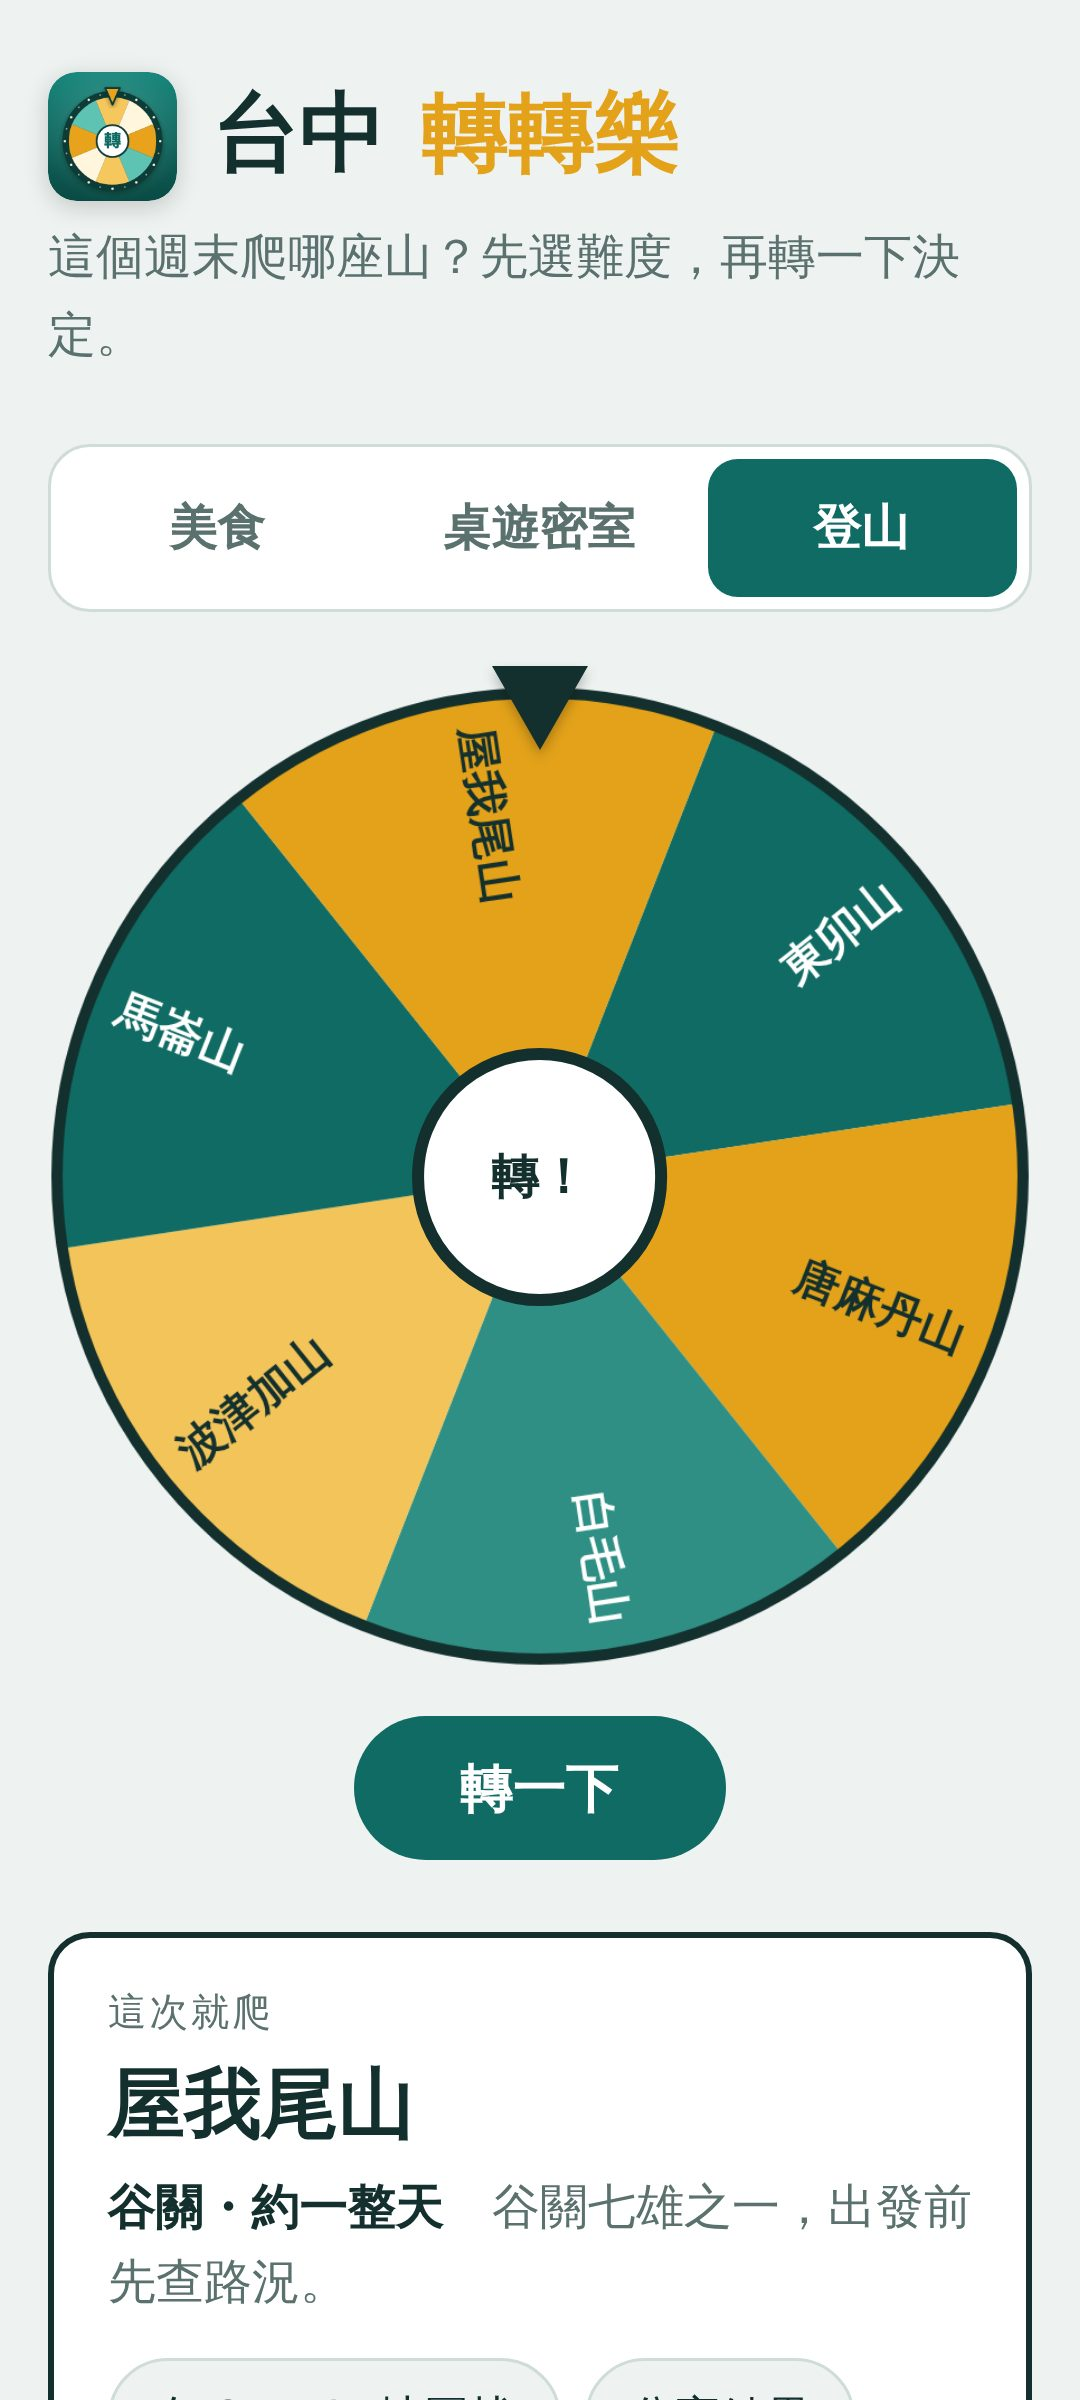
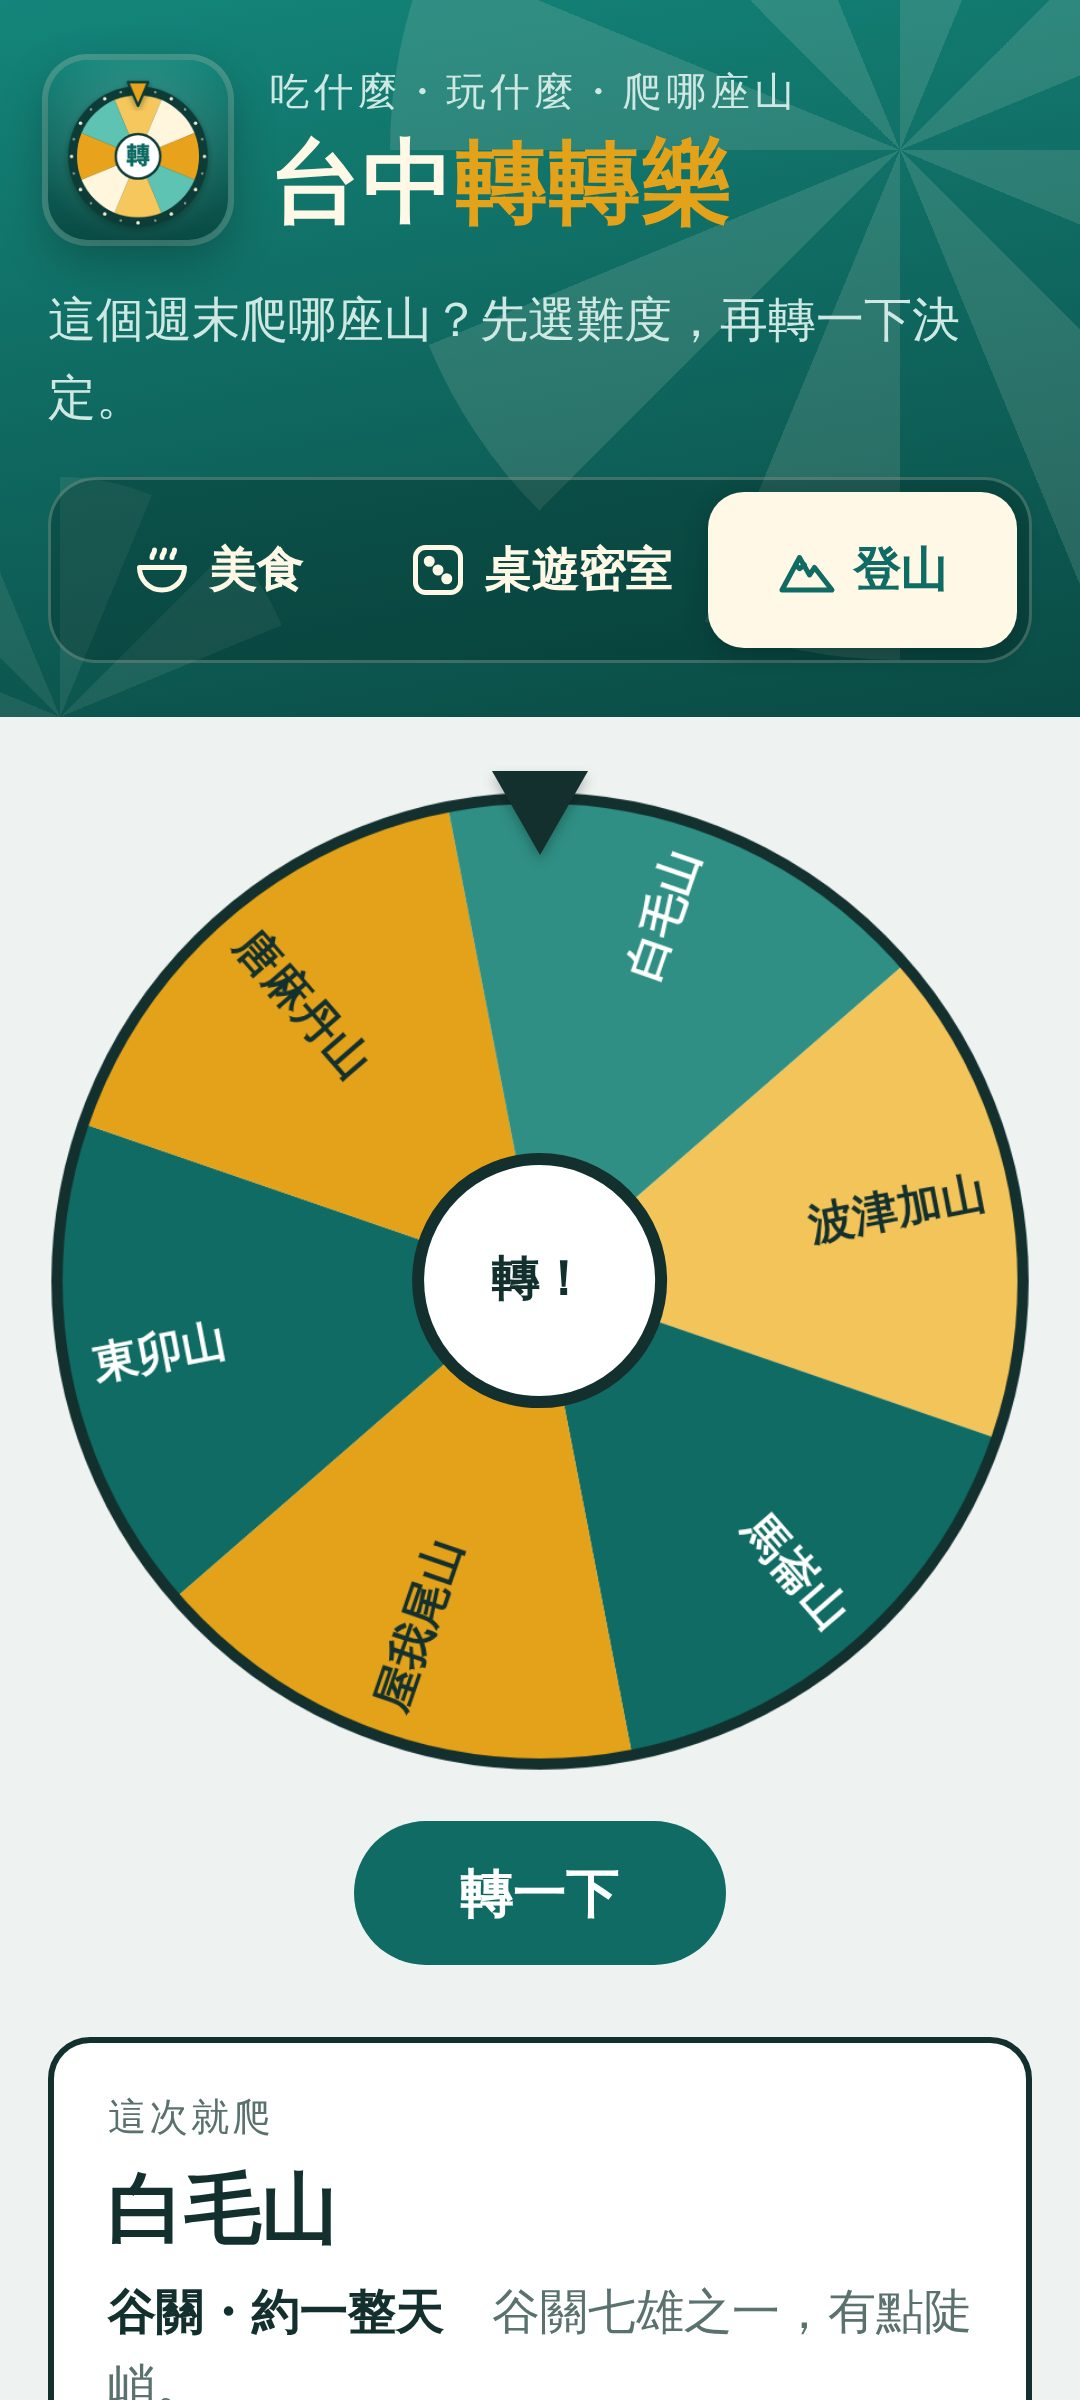
台中轉轉樂：重新設計 App 頂部橫幅
Claude-Session: https://claude.ai/code/session_01RjTRgTtaL6n1Y88vUja3y2

diff --git a/wheel/index.html b/wheel/index.html
@@ -5,8 +5,8 @@
 <meta name="viewport" content="width=device-width, initial-scale=1, viewport-fit=cover">
 <title>台中轉轉樂</title>
 <meta name="description" content="美食、桌遊密室、登山三個轉盤，轉一下決定在台中吃什麼、玩什麼、爬哪座山。">
-<meta name="theme-color" content="#0f6b63" media="(prefers-color-scheme: light)">
-<meta name="theme-color" content="#0e1918" media="(prefers-color-scheme: dark)">
+<meta name="theme-color" content="#14857a" media="(prefers-color-scheme: light)">
+<meta name="theme-color" content="#143a36" media="(prefers-color-scheme: dark)">
 <link rel="manifest" href="manifest.webmanifest">
 <link rel="icon" type="image/png" sizes="32x32" href="icons/favicon-32.png">
 <link rel="icon" type="image/png" sizes="192x192" href="icons/icon-192.png">
@@ -14,7 +14,7 @@
 <meta name="apple-mobile-web-app-capable" content="yes">
 <meta name="mobile-web-app-capable" content="yes">
 <meta name="apple-mobile-web-app-title" content="台中轉轉樂">
-<meta name="apple-mobile-web-app-status-bar-style" content="default">
+<meta name="apple-mobile-web-app-status-bar-style" content="black-translucent">
 </head>
 <body>
 <style>
@@ -28,6 +28,14 @@
     --accent: #0f6b63;
     --accent-fg: #ffffff;
     --sun: #e3a21a;
+    --hero-top: #14857a;
+    --hero-bottom: #0a4a44;
+    --hero-fg: #fff8e7;
+    --hero-muted: #cfe8e3;
+    --hero-line: rgba(255, 248, 231, .22);
+    --hero-tab-bg: rgba(4, 33, 30, .28);
+    --hero-tab-on: #fff8e7;
+    --hero-tab-on-fg: #0f6b63;
     --seg-1: #0f6b63;
     --seg-2: #e3a21a;
     --seg-3: #2f8f84;
@@ -41,6 +49,7 @@
     :root:not([data-theme="light"]) {
       --bg: #0e1918; --surface: #152422; --fg: #e4efed; --muted: #94aaa6; --line: #2a3f3c;
       --accent: #4cc1b3; --accent-fg: #0b1716; --sun: #f0b93f;
+      --hero-top: #143a36; --hero-bottom: #0b1f1d; --hero-fg: #e4efed; --hero-muted: #9fc2bc; --hero-line: rgba(228, 239, 237, .16); --hero-tab-bg: rgba(0, 0, 0, .3); --hero-tab-on: #4cc1b3; --hero-tab-on-fg: #0b1716;
       --seg-1: #1f7f75; --seg-2: #d79a1c; --seg-3: #2d9e91; --seg-4: #e9bc4f;
       --seg-ink-dark: #0e1918; --seg-ink-light: #ffffff;
       color-scheme: dark;
@@ -49,6 +58,7 @@
   :root[data-theme="dark"] {
     --bg: #0e1918; --surface: #152422; --fg: #e4efed; --muted: #94aaa6; --line: #2a3f3c;
     --accent: #4cc1b3; --accent-fg: #0b1716; --sun: #f0b93f;
+    --hero-top: #143a36; --hero-bottom: #0b1f1d; --hero-fg: #e4efed; --hero-muted: #9fc2bc; --hero-line: rgba(228, 239, 237, .16); --hero-tab-bg: rgba(0, 0, 0, .3); --hero-tab-on: #4cc1b3; --hero-tab-on-fg: #0b1716;
     --seg-1: #1f7f75; --seg-2: #d79a1c; --seg-3: #2d9e91; --seg-4: #e9bc4f;
     --seg-ink-dark: #0e1918; --seg-ink-light: #ffffff;
     color-scheme: dark;
@@ -62,27 +72,71 @@
     font-family: var(--font-body);
     font-size: 16px;
     line-height: 1.6;
-    padding-left: max(16px, env(safe-area-inset-left, 0px));
-    padding-right: max(16px, env(safe-area-inset-right, 0px));
-    padding-top: calc(24px + env(safe-area-inset-top, 0px));
     padding-bottom: calc(40px + env(safe-area-inset-bottom, 0px));
     margin: 0;
   }
-  .wrap { max-width: 980px; margin: 0 auto; display: grid; gap: 24px; }
-  header h1 {
-    font-family: var(--font-display);
-    font-weight: 900;
-    font-size: clamp(1.8rem, 5vw, 2.6rem);
-    line-height: 1.2;
-    margin: 0;
-    text-wrap: balance;
+  .wrap {
+    max-width: 980px; margin: 0 auto; display: grid; gap: 24px; grid-template-columns: minmax(0, 1fr);
+    padding-left: max(16px, env(safe-area-inset-left, 0px));
+    padding-right: max(16px, env(safe-area-inset-right, 0px));
+    padding-top: 24px;
   }
-  header h1 span { color: var(--sun); }
-  header h1 { display: flex; align-items: center; gap: 12px; }
-  header h1 .logo { width: 1.5em; height: 1.5em; flex: none; border-radius: 22%; box-shadow: 0 2px 8px rgba(0,0,0,.18); }
-  header p { margin: 6px 0 0; color: var(--muted); }
+  /* 頂部橫幅：滿版漸層，延伸到手機狀態列底下 */
+  .hero {
+    position: relative; overflow: hidden;
+    background: linear-gradient(170deg, var(--hero-top), var(--hero-bottom));
+    color: var(--hero-fg);
+    padding-top: calc(20px + env(safe-area-inset-top, 0px));
+    padding-bottom: 18px;
+  }
+  .hero::before, .hero::after {
+    content: ""; position: absolute; border-radius: 50%; pointer-events: none;
+    background: repeating-conic-gradient(from 0deg, var(--hero-line) 0 22.5deg, transparent 22.5deg 45deg);
+  }
+  .hero::before { width: 340px; height: 340px; right: -110px; top: -120px; opacity: .55; }
+  .hero::after { width: 160px; height: 160px; left: -60px; bottom: -80px; opacity: .35; }
+  .is-spinning .hero::before { animation: hero-spin 1.2s linear infinite; }
+  @keyframes hero-spin { to { transform: rotate(360deg); } }
+  .hero-in {
+    position: relative; z-index: 1;
+    max-width: 980px; margin: 0 auto; display: grid; gap: 14px;
+    padding-left: max(16px, env(safe-area-inset-left, 0px));
+    padding-right: max(16px, env(safe-area-inset-right, 0px));
+  }
+  .brand { display: flex; align-items: center; gap: 14px; min-width: 0; }
+  .brand .logo {
+    width: 60px; height: 60px; flex: none; border-radius: 22%;
+    box-shadow: 0 6px 16px rgba(0, 0, 0, .28), 0 0 0 2px var(--hero-line);
+  }
+  .eyebrow { margin: 0; font-size: .82rem; letter-spacing: .12em; color: var(--hero-muted); }
+  .hero h1 {
+    font-family: var(--font-display); font-weight: 900;
+    font-size: clamp(1.9rem, 6.5vw, 2.7rem); line-height: 1.15; margin: 2px 0 0;
+    letter-spacing: .02em;
+  }
+  .hero h1 span { color: var(--sun); }
+  .intro { margin: 0; color: var(--hero-muted); max-width: 40em; }
+  @media (max-width: 600px) { .intro { min-height: 3.2em; } }
 
-  .layout { display: grid; gap: 24px; grid-template-columns: 1fr; align-items: start; }
+  .tabs {
+    display: grid; grid-template-columns: repeat(3, minmax(0, 1fr)); gap: 4px; padding: 4px;
+    background: var(--hero-tab-bg); border: 1px solid var(--hero-line); border-radius: 16px;
+  }
+  .tab {
+    font: 700 .98rem var(--font-body); color: var(--hero-fg); background: transparent; border: 0;
+    border-radius: 12px; min-height: 52px; padding: 6px 4px; cursor: pointer;
+    display: flex; align-items: center; justify-content: center; gap: 6px;
+    transition: background .2s, color .2s;
+  }
+  .tab svg { width: 20px; height: 20px; flex: none; }
+  .tab:hover { background: rgba(255, 255, 255, .08); }
+  .tab[aria-selected="true"] { background: var(--hero-tab-on); color: var(--hero-tab-on-fg); box-shadow: 0 2px 8px rgba(0, 0, 0, .2); }
+  .tab:disabled { cursor: wait; }
+  .tab:focus-visible { outline: 3px solid var(--sun); outline-offset: 2px; }
+  @media (max-width: 340px) { .tab svg { display: none; } }
+  @media (prefers-reduced-motion: reduce) { .is-spinning .hero::before { animation: none; } .tab { transition: none; } }
+
+  .layout { display: grid; gap: 24px; grid-template-columns: minmax(0, 1fr); align-items: start; }
   @media (min-width: 820px) { .layout { grid-template-columns: minmax(0, 1.1fr) minmax(0, 1fr); } }
 
   .stage { display: grid; justify-items: center; gap: 16px; min-width: 0; }
@@ -113,7 +167,7 @@
   .spin-btn:disabled { opacity: .6; cursor: wait; }
   button:focus-visible, input:focus-visible { outline: 3px solid var(--sun); outline-offset: 2px; }
 
-  .panel { display: grid; gap: 16px; min-width: 0; }
+  .panel { display: grid; gap: 16px; min-width: 0; grid-template-columns: minmax(0, 1fr); }
   .result {
     background: var(--surface); border: 2px solid var(--fg); border-radius: 14px;
     padding: 16px 18px; min-height: 132px;
@@ -125,7 +179,7 @@
   .result.pop .name { animation: pop .45s ease-out; }
   @keyframes pop { 0% { transform: scale(.85); opacity: 0; } 100% { transform: scale(1); opacity: 1; } }
 
-  .box { border-top: 1px solid var(--line); padding-top: 14px; display: grid; gap: 10px; }
+  .box { border-top: 1px solid var(--line); padding-top: 14px; display: grid; gap: 10px; grid-template-columns: minmax(0, 1fr); }
   .box h2 { font-size: 1rem; margin: 0; }
   .filters, .chips { display: flex; flex-wrap: wrap; gap: 8px; }
   .filter {
@@ -181,27 +235,37 @@
   .toggle { display: flex; gap: 10px; align-items: center; font-size: .92rem; cursor: pointer; min-height: 40px; }
   .toggle input { width: 20px; height: 20px; accent-color: var(--accent); flex: none; }
 
-  .tabs { display: grid; grid-template-columns: repeat(3, minmax(0, 1fr)); gap: 4px; padding: 4px;
-    background: var(--surface); border: 1px solid var(--line); border-radius: 14px; }
-  .tab { font: 700 1rem var(--font-body); color: var(--muted); background: transparent; border: 0;
-    border-radius: 10px; min-height: 46px; padding: 6px 4px; cursor: pointer; }
-  .tab[aria-selected="true"] { background: var(--accent); color: var(--accent-fg); }
-  .tab:disabled { cursor: wait; }
-
   @media (prefers-reduced-motion: reduce) { .result.pop .name { animation: none; } }
 </style>
 
-<div class="wrap">
-  <header>
-    <h1><img class="logo" src="icons/icon-192.png" alt="" width="48" height="48">台中<span>轉轉樂</span></h1>
-    <p id="intro"></p>
-  </header>
+<header class="hero">
+  <div class="hero-in">
+    <div class="brand">
+      <img class="logo" src="icons/icon-192.png" alt="" width="60" height="60">
+      <div>
+        <p class="eyebrow">吃什麼・玩什麼・爬哪座山</p>
+        <h1>台中<span>轉轉樂</span></h1>
+      </div>
+    </div>
+    <p class="intro" id="intro"></p>
+    <nav class="tabs" role="tablist" aria-label="選擇轉盤">
+      <button class="tab" type="button" role="tab" id="tab-food" data-key="food">
+        <svg viewBox="0 0 24 24" fill="none" stroke="currentColor" stroke-width="2" stroke-linecap="round" stroke-linejoin="round" aria-hidden="true"><path d="M3 11h18a9 9 0 0 1-18 0Z"/><path d="M8 7c0-1.5 1-1.5 1-3M12 7c0-1.5 1-1.5 1-3M16 7c0-1.5 1-1.5 1-3"/></svg>
+        <span>美食</span>
+      </button>
+      <button class="tab" type="button" role="tab" id="tab-games" data-key="games">
+        <svg viewBox="0 0 24 24" fill="none" stroke="currentColor" stroke-width="2" stroke-linecap="round" stroke-linejoin="round" aria-hidden="true"><rect x="3" y="3" width="18" height="18" rx="4"/><circle cx="8.5" cy="8.5" r="1.2" fill="currentColor"/><circle cx="15.5" cy="15.5" r="1.2" fill="currentColor"/><circle cx="12" cy="12" r="1.2" fill="currentColor"/></svg>
+        <span>桌遊密室</span>
+      </button>
+      <button class="tab" type="button" role="tab" id="tab-hike" data-key="hike">
+        <svg viewBox="0 0 24 24" fill="none" stroke="currentColor" stroke-width="2" stroke-linecap="round" stroke-linejoin="round" aria-hidden="true"><path d="M2 20 9 7l4 7 2-3 7 9Z"/><path d="m7.5 10 1.5 1.5L11 10"/></svg>
+        <span>登山</span>
+      </button>
+    </nav>
+  </div>
+</header>
 
-  <nav class="tabs" role="tablist" aria-label="選擇轉盤">
-    <button class="tab" type="button" role="tab" id="tab-food" data-key="food">美食</button>
-    <button class="tab" type="button" role="tab" id="tab-games" data-key="games">桌遊密室</button>
-    <button class="tab" type="button" role="tab" id="tab-hike" data-key="hike">登山</button>
-  </nav>
+<div class="wrap">
 
   <div class="layout">
     <section class="stage" aria-label="轉盤">
@@ -594,6 +658,7 @@
     var list = active();
     if (!list.length && filter() !== "全部") { filters[current] = "全部"; list = active(); }
     spinBtn.disabled = hub.disabled = spinning || list.length < 2;
+    document.documentElement.classList.toggle("is-spinning", spinning);
     renderTabs();
     renderFilters();
     renderChips();

diff --git a/wheel/sw.js b/wheel/sw.js
@@ -1,6 +1,6 @@
 // 台中轉轉樂的 service worker：先存好 App 檔案，沒有網路也能開啟。
 // 修改任何檔案後，請把 CACHE 的版本號加一，手機才會更新到新版。
-const CACHE = "taichung-wheels-v3";
+const CACHE = "taichung-wheels-v4";
 const FILES = [
   "./",
   "./index.html",
